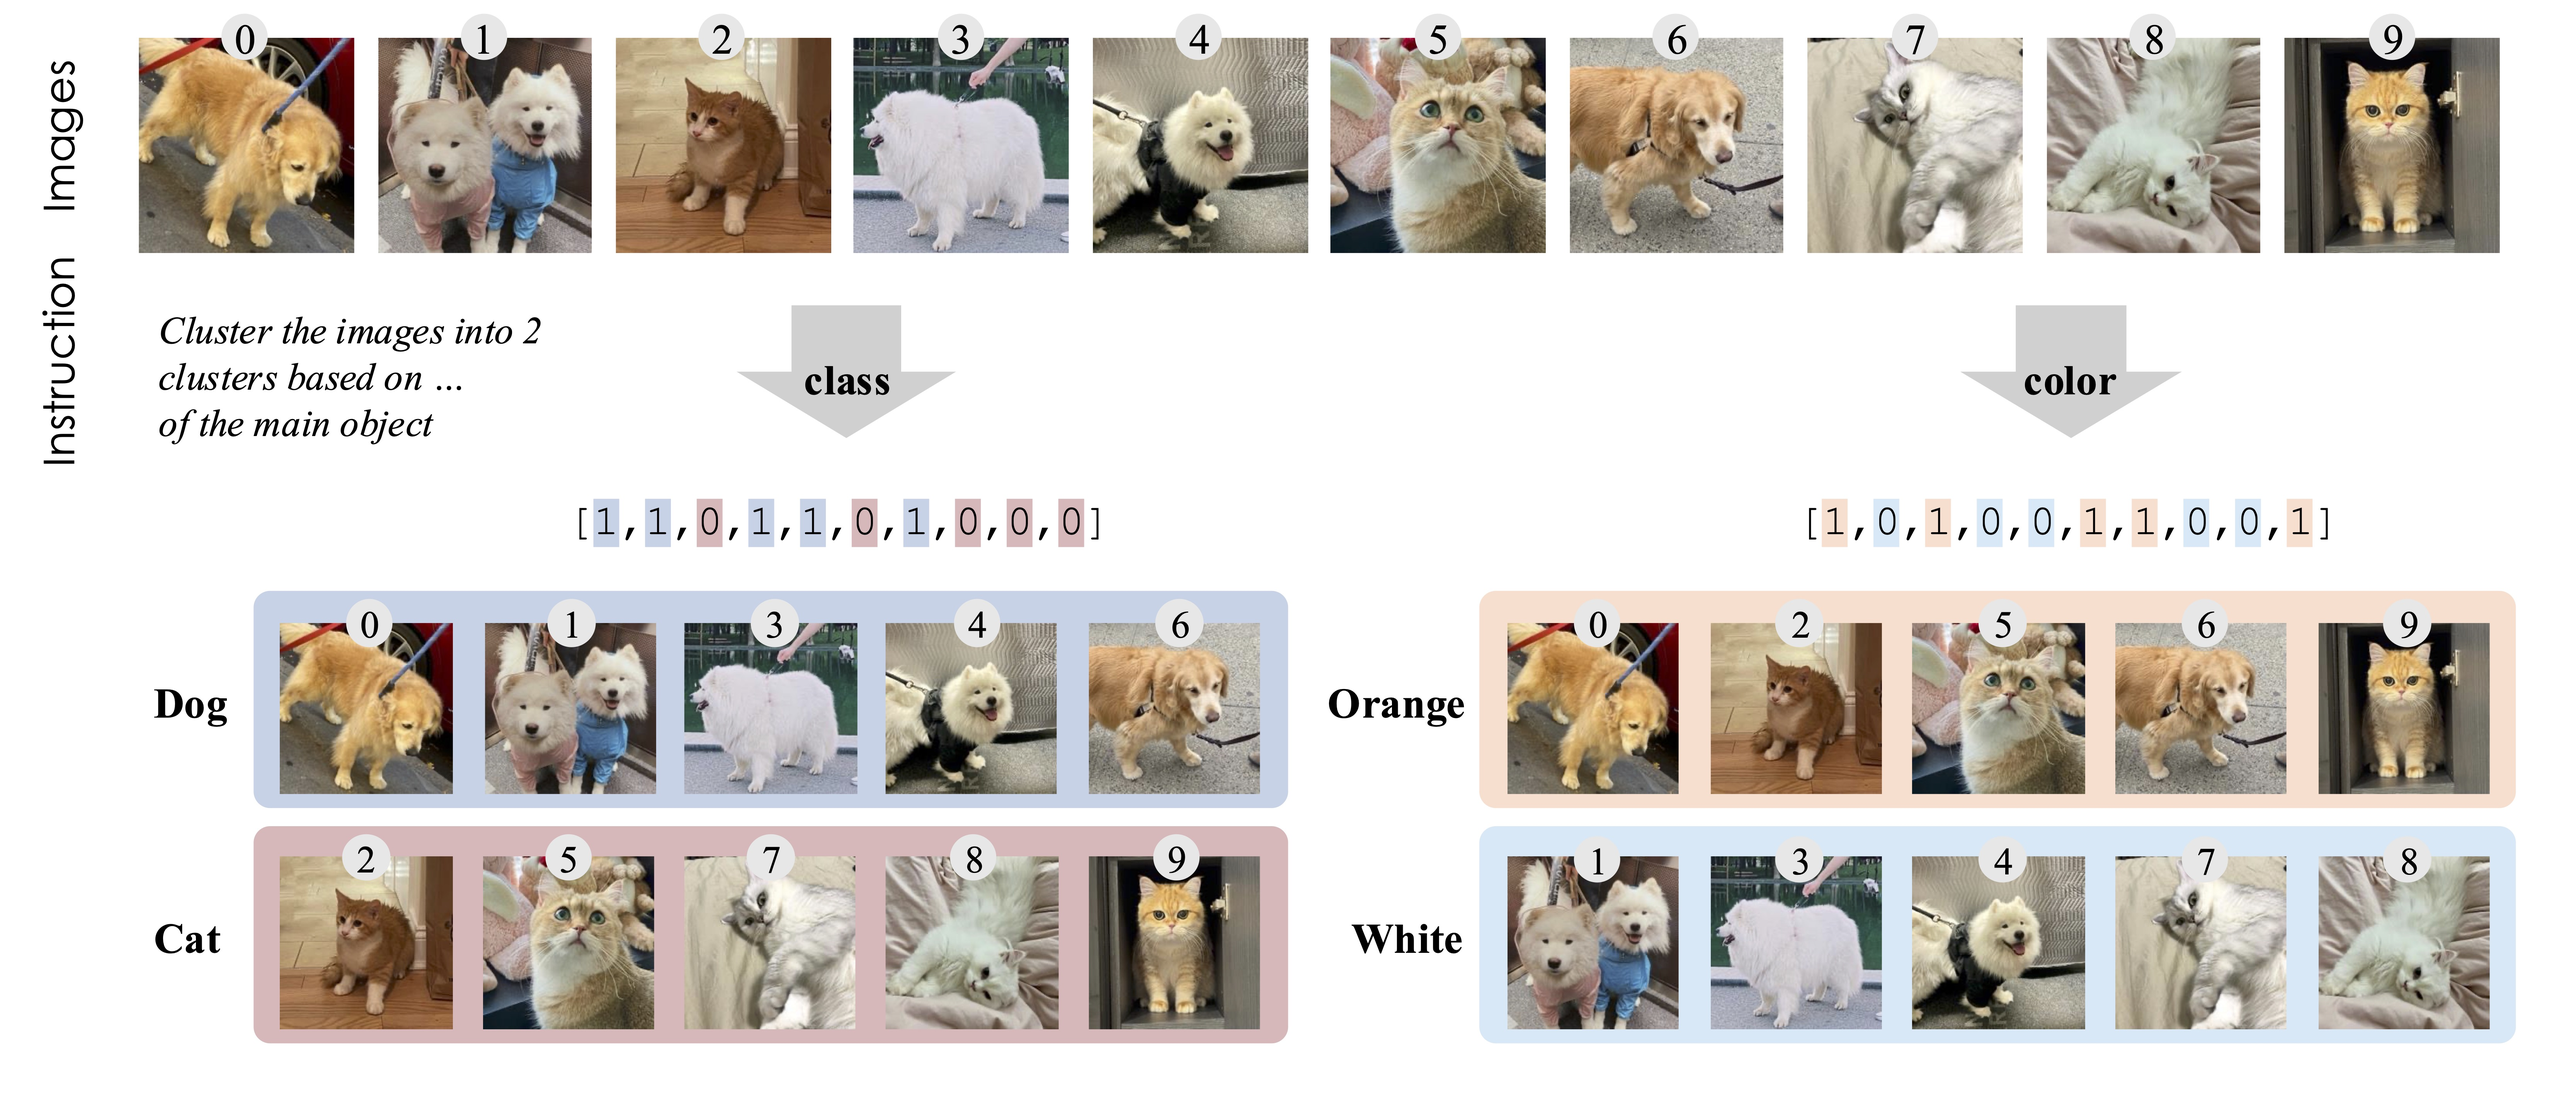
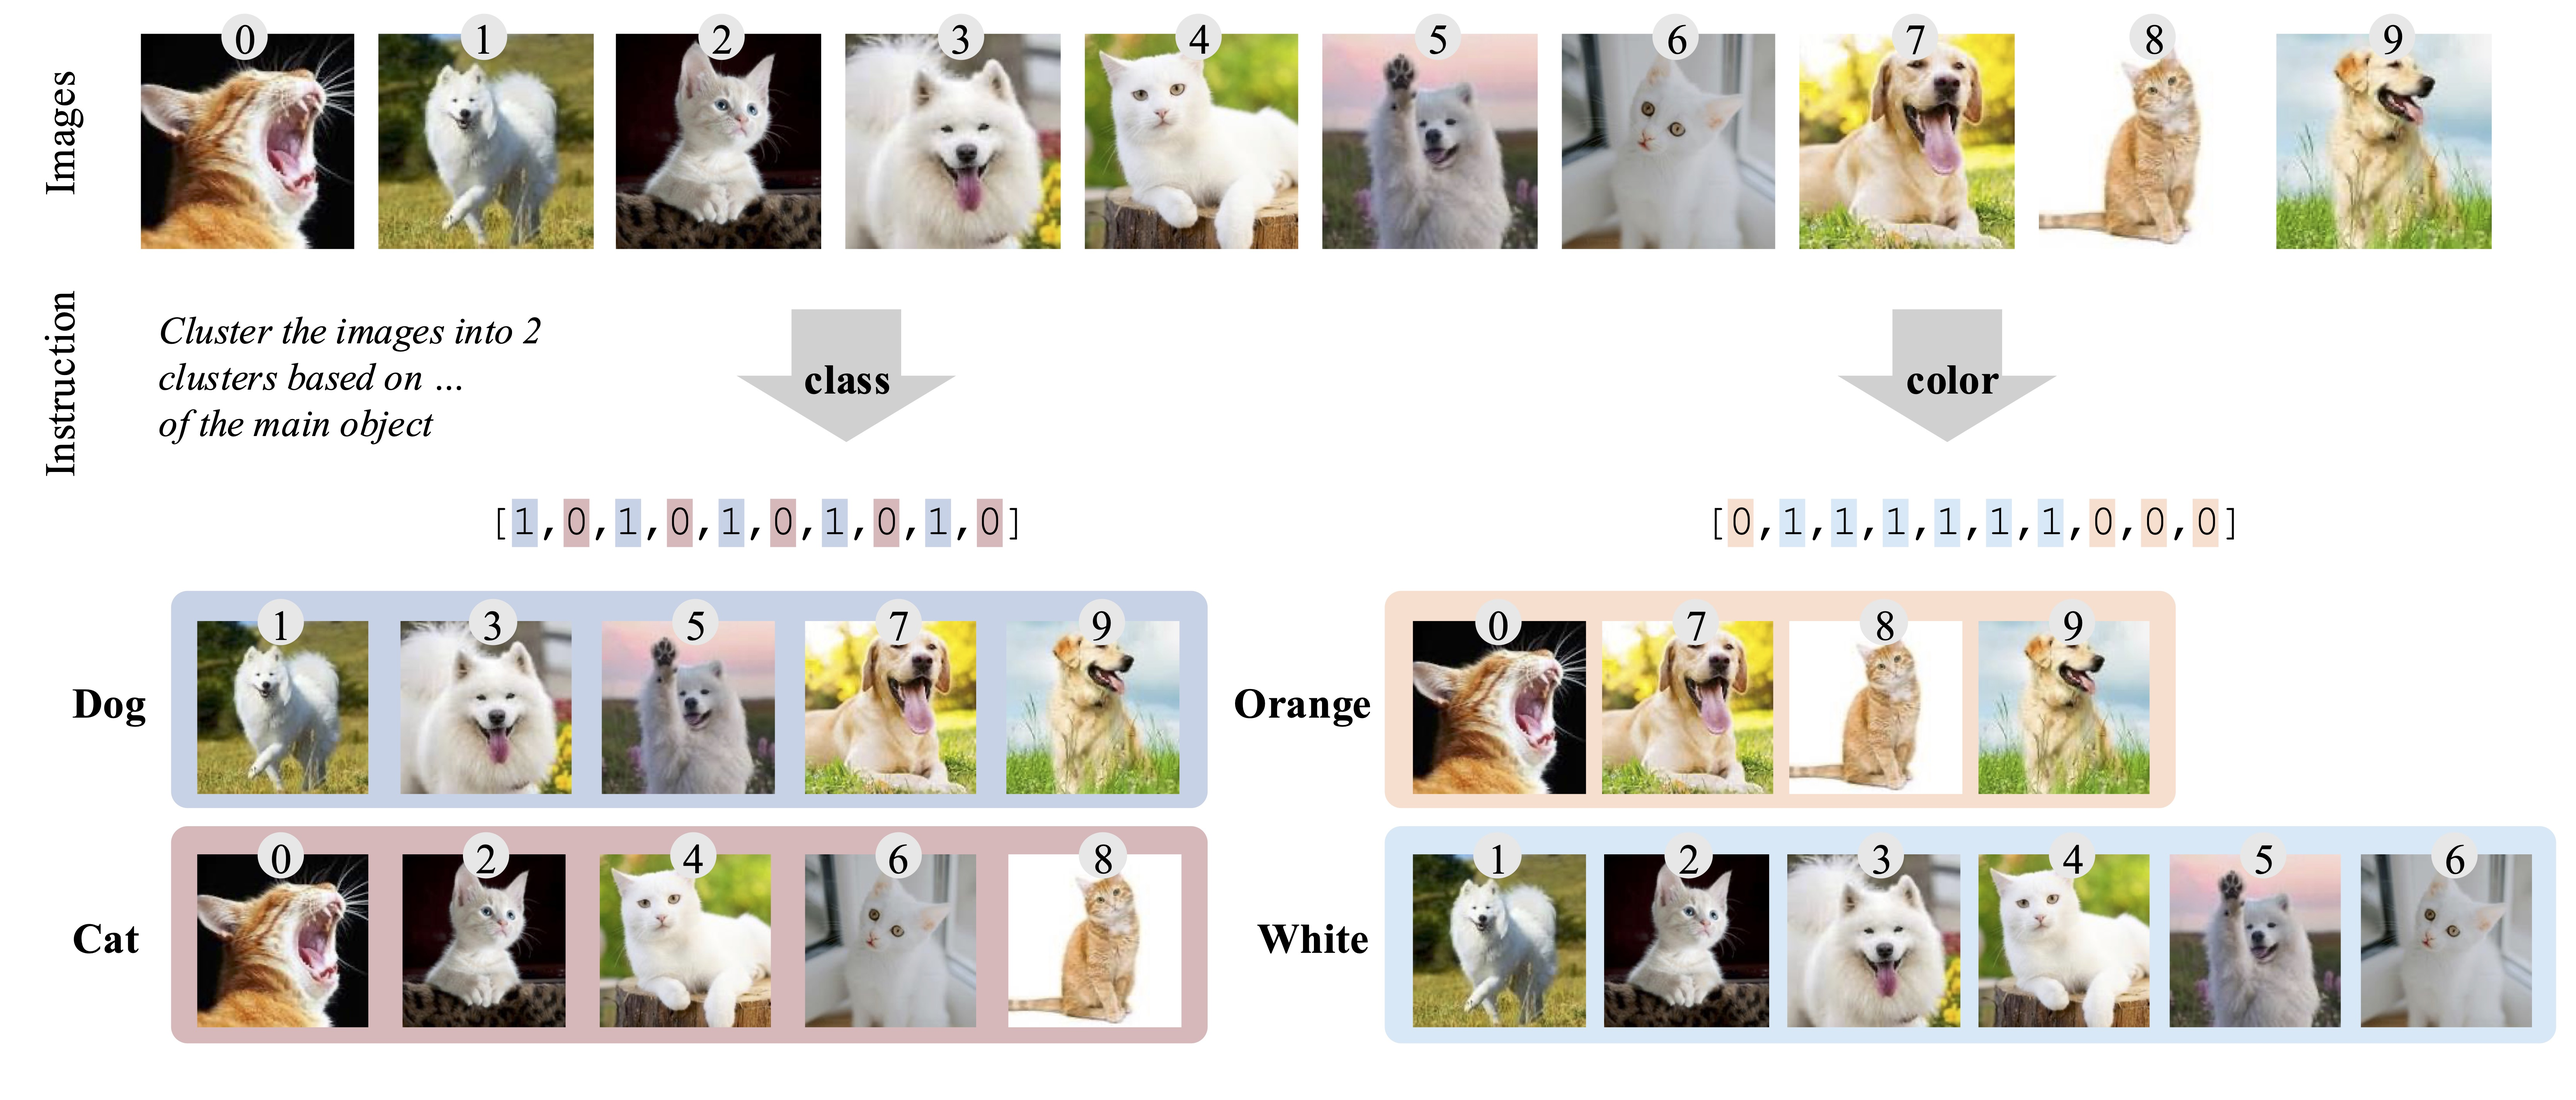
update figures

diff --git a/index.html b/index.html
@@ -18,7 +18,7 @@
   <meta property="og:description" content="In-Context Clustering (ICC), a flexible LLM-based procedure for clustering data from diverse distributions."/>
   <meta property="og:url" content="https://agenticlearning.ai/icc/"/>
   <!-- Path to banner image, should be in the path listed below. Optimal dimenssions are 1200X630-->
-  <meta property="og:image" content="static/image/image_clustering.pdf" />
+  <meta property="og:image" content="static/image/icc.jpeg" />
   <meta property="og:image:width" content="1200"/>
   <meta property="og:image:height" content="630"/>
 
@@ -26,10 +26,10 @@
   <meta name="twitter:title" content="In-Context Clustering with Large Language Models">
   <meta name="twitter:description" content="In-Context Clustering (ICC), a flexible LLM-based procedure for clustering data from diverse distributions.">
   <!-- Path to banner image, should be in the path listed below. Optimal dimenssions are 1200X600-->
-  <meta name="twitter:image" content="static/media/image_clustering.pdf">
+  <meta name="twitter:image" content="static/image/icc.jpeg">
   <meta name="twitter:card" content="summary_large_image">
   <!-- Keywords for your paper to be indexed by-->
-  <meta name="keywords" content="LLM,Clustering,Attention,Multimodal">
+  <meta name="keywords" content="LLM,Clustering,Multimodal">
   <meta name="viewport" content="width=device-width, initial-scale=1">
 
 
@@ -140,7 +140,7 @@
         <h2 class="title is-4">Abstract</h2>
         <div class="content has-text-justified">
           <p>
-            We propose In-Context Clustering (ICC), a flexible LLM-based procedure for clustering data from diverse distributions. Unlike traditional clustering algorithms constrained by predefined similarity measures, ICC flexibly captures complex relationships among inputs through the attention mechanism. We show that pretrained LLMs exhibit impressive zero-shot clustering capabilities on text-encoded numeric data, with attention matrices showing salient cluster patterns. Spectral clustering using these attention matrices provides surprisingly competitive performance. We further enhance the clustering capabilities of LLMs on numeric and image data through fine-tuning using Next Token Prediction (NTP) loss. Moreover, the flexibility of LLM prompting enables text-conditioned image clustering, a capability that classical clustering methods lack. Our work extends in-context learning to an unsupervised setting, showcasing the effectiveness and flexibility of LLMs for clustering.
+            We propose In-Context Clustering (ICC), a flexible LLM-based procedure for clustering data from diverse distributions. Unlike traditional clustering algorithms constrained by predefined similarity measures, ICC flexibly captures complex relationships among inputs through an attention mechanism. We show that pretrained LLMs exhibit impressive zero-shot clustering capabilities on text-encoded numeric data, with attention matrices showing salient cluster patterns. Spectral clustering using attention matrices offers surprisingly competitive performance. We further enhance the clustering capabilities of LLMs on numeric and image data through fine-tuning using the Next Token Prediction (NTP) loss. Moreover, the flexibility of LLM prompting enables text-conditioned image clustering, a capability that classical clustering methods lack. Our work extends in-context learning to an unsupervised setting, showcasing the effectiveness and flexibility of LLMs for clustering.
           </p>
         </div>
       </div>

diff --git a/README.md b/README.md
@@ -1,3 +1,3 @@
 # In-Context Clustering with Large Language Models
 
-Abstract: We propose In-Context Clustering (ICC), a flexible LLM-based procedure for clustering data from diverse distributions. Unlike traditional clustering algorithms constrained by predefined similarity measures, ICC flexibly captures complex relationships among inputs through the attention mechanism. We show that pretrained LLMs exhibit impressive zero-shot clustering capabilities on text-encoded numeric data, with attention matrices showing salient cluster patterns. Spectral clustering using these attention matrices provides surprisingly competitive performance. We further enhance the clustering capabilities of LLMs on numeric and image data through fine-tuning using Next Token Prediction (NTP) loss. Moreover, the flexibility of LLM prompting enables text-conditioned image clustering, a capability that classical clustering methods lack. Our work extends in-context learning to an unsupervised setting, showcasing the effectiveness and flexibility of LLMs for clustering.
+Abstract: We propose In-Context Clustering (ICC), a flexible LLM-based procedure for clustering data from diverse distributions. Unlike traditional clustering algorithms constrained by predefined similarity measures, ICC flexibly captures complex relationships among inputs through an attention mechanism. We show that pretrained LLMs exhibit impressive zero-shot clustering capabilities on text-encoded numeric data, with attention matrices showing salient cluster patterns. Spectral clustering using attention matrices offers surprisingly competitive performance. We further enhance the clustering capabilities of LLMs on numeric and image data through fine-tuning using the Next Token Prediction (NTP) loss. Moreover, the flexibility of LLM prompting enables text-conditioned image clustering, a capability that classical clustering methods lack. Our work extends in-context learning to an unsupervised setting, showcasing the effectiveness and flexibility of LLMs for clustering.
